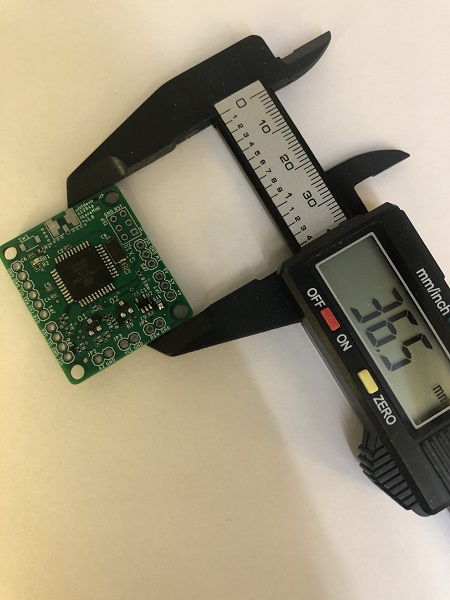
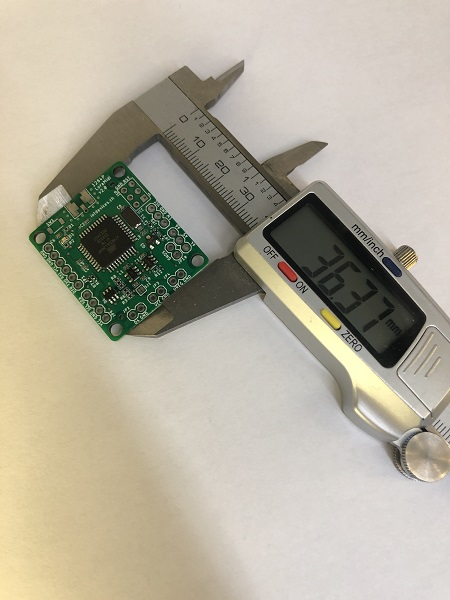
updated documentation

diff --git a/README.md b/README.md
@@ -3,13 +3,13 @@ Special and small Lora(WAN) board using an Atmega1284P chip, RFM95 module and TP
 
 ## Specialities about this board
 - Arduino compatible
-- Atmega1284P with 128KB flash and 16KB RAM, easy replacement for Atmega328p boards
-- Small form factor, 36.5mm lenght, 31.5mm width
+- Atmega1284P @ 8MHz with 128KB flash and 16KB RAM, easy replacement for Atmega328p boards
+- Small form factor, 36.4mm lenght, 31.4mm width
 - TPS782 low quiescent 500nA regulator
 - RFM95 can be soldered to the bottom side
 - Wire antenna, helical antenna, SMA antenna support
 - TPL5010 can be used to wakeup the Atmega, with optional watchdog function
-- Voltage divier on board, enabled through two MOSFET driven by pin 0
+- Voltage divider on board, enabled through two MOSFET driven by pin 0
 - I2C and 1-Wire pullups on board
 - Input pin for interrupts with pullup resistor on board
 - Two GND pins can be powered on/off through a MOSFET driven by pin 15 to power on/off external peripherals
